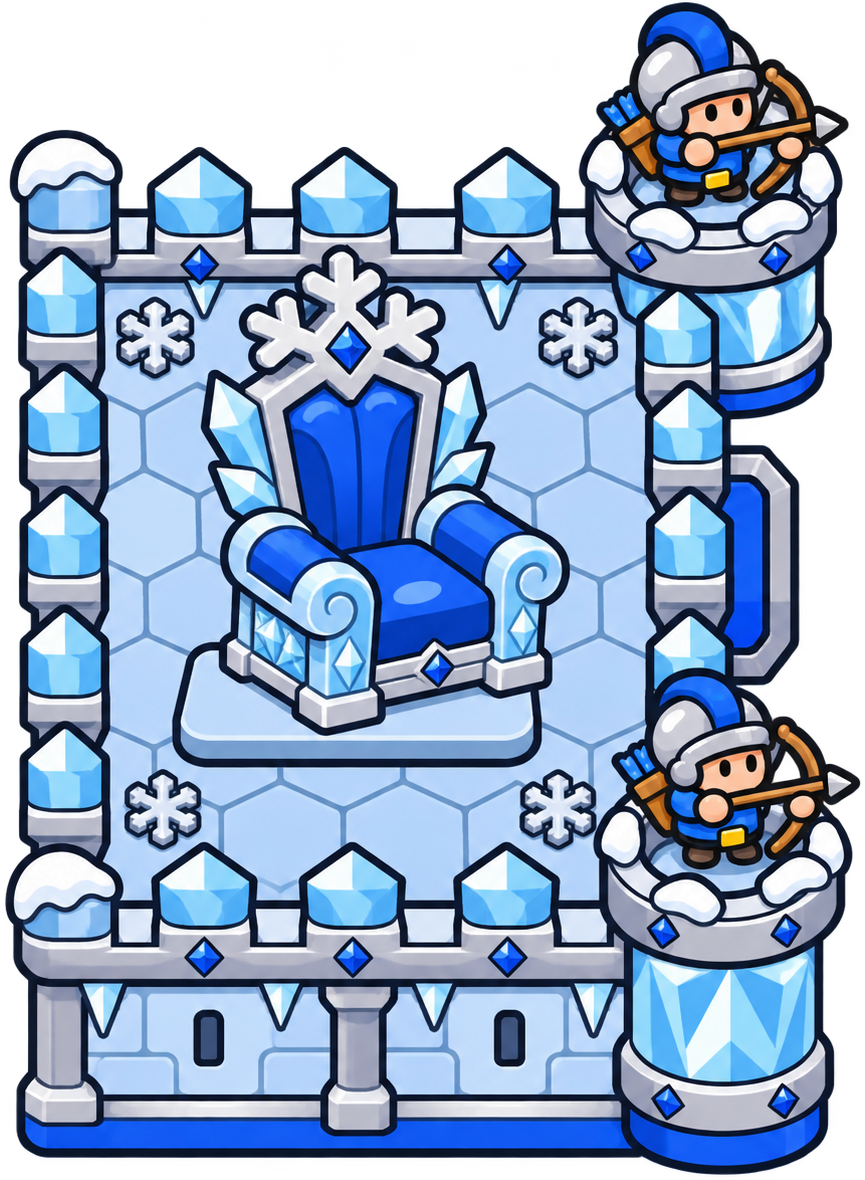
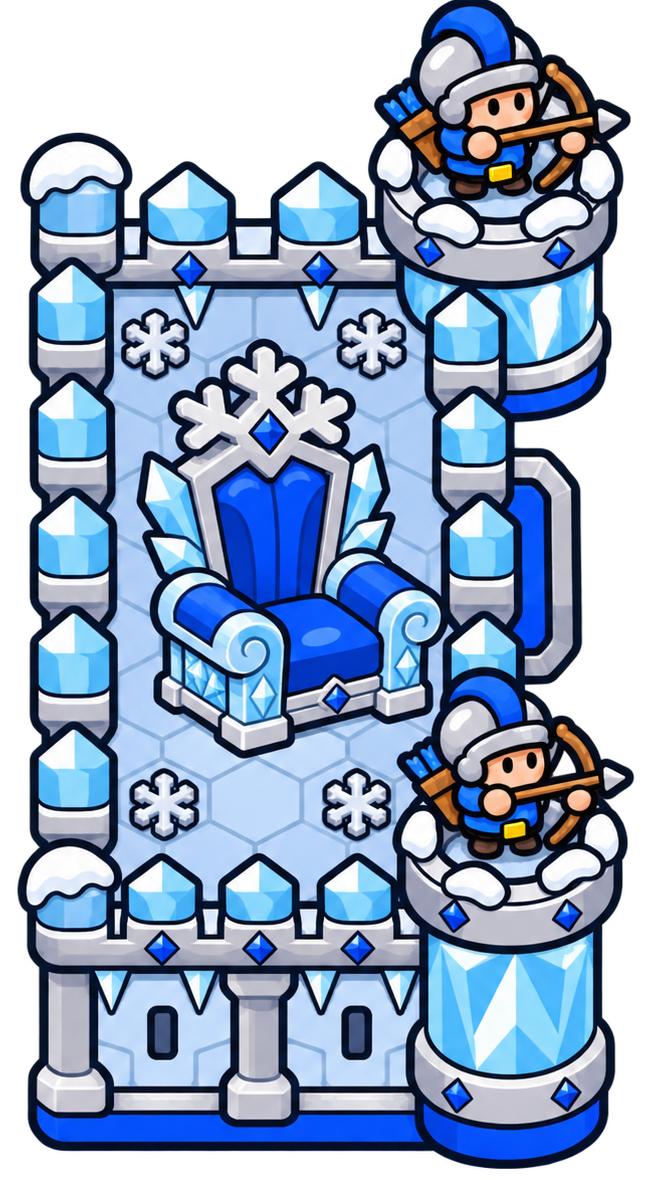
Castillos nuevos; unidades +30 %; arrastre libre (se suelta solo en el camino); bestia bajo el castillo; héroe y bestia fijos sobre las cartas
Claude-Session: https://claude.ai/code/session_01JNP7QCwsBCjLSMGndzwo2W

diff --git a/docs/index.html b/docs/index.html
@@ -967,7 +967,7 @@ body.nav .screen.abismo { padding-bottom: calc(var(--navh) + var(--sb) + 12px); 
 <script>
 (() => {
 'use strict';
-const W = 3660, VW = 960, HGT = 540, GROUND = 410, H = 240;
+const W = 3660, VW = 960, HGT = 540, GROUND = 410, H = 312;
 const OUT = 0x1e2235, STRING = 0xf6e3c6; let BLUE = 0x3b82f6, PURPLE = 0x8b5cf6;
 const ease = p => p < 0 ? 0 : p > 1 ? 1 : 1 - Math.pow(1 - p, 3);
 const easeIn = p => p < 0 ? 0 : p > 1 ? 1 : p * p * p;
@@ -4531,7 +4531,7 @@ let myHero = (() => { try { const h = localStorage.getItem('bg-hero'); return HE
    camino. El tuyo a la izquierda; el del rival, volteado a la derecha y con su color. Cuatro aspectos: piedra, roble, hielo y hierro ---- */
 let ROADW = 1250;                                        // anchura del camino (de hierba a hierba), en unidades del mundo (la fija la escena)
 // ky: aplastado en vertical; oy/y0: la base de la torre de abajo, en la hierba
-const CAS = { k: 2.08, ky: 1.912, x0: 400 - 860 * 2.08, oy: 1162, y0: GROUND + 765, front: 860, seat: [385, 560], arch: [[790, 132], [795, 776]], w: 865, h: 1180 };
+const CAS = { k: 2.08, ky: 1.935, x0: 400 - 643 * 2.08, oy: 1170, y0: GROUND + 765, front: 643, seat: [290, 565], arch: [[610, 125], [615, 785]], w: 660, h: 1180 };
 const CASTLE_FRONT = CAS.x0 + CAS.front * CAS.k;            // frente de las torres
 const THRONE = { x: CAS.x0 + CAS.seat[0] * CAS.k, y: CAS.y0 + (CAS.seat[1] - CAS.oy) * CAS.ky, w: 185 * CAS.k };
 // el terreno de juego va de FIELD_L a FIELD_R: nadie pisa ningún castillo (al aparecer, al ser empujado o al lanzarse)
@@ -4640,7 +4640,7 @@ let ROAD_HALF = H;
 const LANES = 5, LANE_DRIFT = 75 * H / 120;   // px por segundo de cambio de carril
 function laneRand() { const i = Math.floor(Math.random() * LANES), sp = ROAD_HALF * 0.45; return Math.round((i - (LANES - 1) / 2) / ((LANES - 1) / 2) * sp + rand(-6, 6)); }
 function laneTick(dt) {
-  const lim = ROAD_HALF * 0.52;
+  const lim = ROAD_HALF * 0.85;
   for (const u of units) {
     if (!u.alive || u.isCastle || !['walk', 'attack', 'idle'].includes(u.state)) continue;
     const o = nearestEnemy(u);
@@ -6925,8 +6925,8 @@ function colocaCripta() {
   if (BST) { BST.setVisible(false); if (BST.sombra) BST.sombra.setVisible(false); }
   if (!scene || !cam || !B || !B.beast || B.sim || B.idle || $('hud').hidden || !$('menu').hidden) return;
   if (BST) {
-    BST.x0 = CASTLE_FRONT + H * 0.3; BST.y0 = GROUND + ROAD_HALF + H * 1.1; BST.hh = H * 1.25 * BST.art.h;
-    BST.minX = CASTLE_FRONT - H * 0.6; BST.maxX = CASTLE_FRONT + H * 1.6; BST.paseo = null; BST.setFlipX(false); BST.setDepth(BST.y0);
+    BST.x0 = THRONE.x + H * 0.3; BST.y0 = CAS.y0 + H * 0.75; BST.hh = H * 1.1 * BST.art.h;   // en el césped, debajo de tu castillo
+    BST.minX = THRONE.x - H * 0.4; BST.maxX = CASTLE_FRONT - H * 0.2; BST.paseo = null; BST.setFlipX(false); BST.setDepth(BST.y0);
     BST.setPosition(BST.x0, BST.y0).setVisible(true); bestiaPose(BST.pose, BST.actT, true);
   }
 }
@@ -7043,27 +7043,17 @@ function abilUI(reset) {
 }
 // dónde van: en horizontal, en la esquina derecha junto al panel de cartas; en vertical, en el cielo encima de tu trono
 function colocaAbils() {
+  // el hechizo, encima del panel de cartas, a la derecha
   const ab = $('abils'), d = $('dock').getBoundingClientRect(), ih = window.innerHeight;
-  // en horizontal, la esquina izquierda es para la cripta: los botones van a la derecha del panel
-  if (d.left >= 74) { ab.style.top = ''; ab.style.left = 'auto'; ab.style.right = 'var(--sr)'; ab.style.bottom = (ih - d.bottom + 10) + 'px'; return; }
-  ab.style.left = 'calc(var(--sl) + 66px)'; ab.style.right = '';   // a la derecha del círculo del héroe, que va sobre el trono
-  const z = cam.zoom / DPR, y = (THRONE.y - 175 - cam.worldView.y) * z, top = $('hudtop').getBoundingClientRect().bottom + 8, hh = ab.offsetHeight || 130;
-  const t = Math.max(top, y - hh);
-  if (t + hh > d.top - 8) { ab.style.top = ''; ab.style.bottom = (ih - d.top + 10) + 'px'; } else { ab.style.bottom = ''; ab.style.top = t + 'px'; }
+  ab.style.top = ''; ab.style.left = 'auto'; ab.style.right = 'calc(var(--sr) + 12px)'; ab.style.bottom = (ih - d.top + 8) + 'px';
 }
 function w2css(x, y) { const z = cam.zoom / DPR; return [(x - cam.worldView.x) * z, (y - cam.worldView.y) * z]; }
 function colocaAnillos() {
+  // héroe y bestia: fijos encima del panel de cartas, a la izquierda (así no tapan el campo)
   if (!B || B.auto || B.idle || $('hud').hidden) return;
-  const top = $('hudtop').getBoundingClientRect().bottom + 4, d = $('dock').getBoundingClientRect(), iw = window.innerWidth;
-  const pon = (el, x, y, h) => {   // encima de (x, y) del mundo, sin salirse de la pantalla ni pisar el marcador
-    const [cx, cy] = w2css(x, y), w = (el.offsetWidth || 48) / 2;
-    el.style.left = Math.max(w + 2, Math.min(iw - w - 2, cx)) + 'px'; el.style.top = Math.max(top + h, cy) + 'px';
-  };
-  const hr = B.hero, he = $('hero');
-  if (hr.state === 'field' && hr.unit && hr.unit.alive) { const u = hr.unit; pon(he, u.x, u.gy - H * (u.cfg.h || 1) * (u.bigK || 1) * 1.25 - 26, he.offsetHeight || 60); }
-  else if (throneImg) pon(he, THRONE.x, THRONE.y - throneImg.displayHeight * 0.92 - 6, he.offsetHeight || 60);
-  const bb = $('ab-beast');
-  if (!bb.hidden && BST) pon(bb, BST.x, BST.y - BST.displayHeight - 4, bb.offsetHeight || 56);
+  const d = $('dock').getBoundingClientRect(), y = d.top - 6;
+  const he = $('hero'); he.style.left = 'calc(var(--sl) + 38px)'; he.style.top = y + 'px';
+  const bb = $('ab-beast'); if (!bb.hidden) { bb.style.left = 'calc(var(--sl) + 110px)'; bb.style.top = y + 'px'; }
 }
 const _playR = play;
 play = function (team, idx) {
@@ -7282,8 +7272,8 @@ function drFin(soltar) {
   const c = d.c; c.classList.remove('drag', 'fuera', 'nope'); c.style.transform = '';
   if (d.g2) d.g2.destroy();
   const lim = d.g ? drLimite(d.t) : 0;
-  if (soltar && d.g && d.g.root.visible && lim >= FIELD_L && B && !B.over && !paused && B.blue.hand[d.i] === d.t) {
-    PLAY_AT = { x: Math.min(d.g.x, lim), hop: d.g.heldH, lane: d.g.lane, swing: d.g.swing };
+  if (soltar && d.g && d.g.root.visible && d.ok && B && !B.over && !paused && B.blue.hand[d.i] === d.t) {
+    PLAY_AT = { x: Math.max(FIELD_L, Math.min(d.g.x, lim)), hop: d.g.heldH, lane: d.g.lane, swing: d.g.swing };
     try { play('blue', d.i); } finally { PLAY_AT = null; }
   }
   drQuita(d.g);
@@ -7320,27 +7310,25 @@ function arrastreTick(dt) {
   if (!B || B.over || paused || $('hud').hidden) { drFin(false); return; }
   const g = d.g; if (!g || !g.root.visible) { if (d.g2) d.g2.clear(); return; }
   const rdt = Math.max(dt, 1 / 120), z = cam.zoom / DPR;
-  const [wx, wy] = drWorld(d.x, d.y), lim = drLimite(d.t), hueco = lim >= FIELD_L;
-  // donde caería: entre tu muralla y el límite; cuelga un poco por encima del dedo para que se vea
-  const tx = Math.max(FIELD_L, Math.min(lim, wx));
-  if (g.nuevo) { g.nuevo = false; g.x = tx; } g.pop = Math.min(1, g.pop + rdt / 0.14);
-  const ph = g.x; g.x += (tx - g.x) * (1 - Math.exp(-rdt * 22));
-  // el carril, a la altura del dedo (dentro del camino): se puede soltar arriba, abajo o en medio
-  const lm = (typeof ROAD_HALF !== 'undefined' ? ROAD_HALF : H) * 0.52; g.lane = Math.max(-lm, Math.min(lm, wy + H * 0.55 - GROUND));
-  g.heldH = Math.max(H * 0.45, Math.min(H * 4, g.gy - (wy - 26 / z)));
-  // péndulo: al moverla, los pies se quedan atrás y luego se mece
+  // la unidad sigue al dedo por todas partes (camino, césped o cielo); solo se puede soltar en el camino, en tu zona
+  const [wx, wy] = drWorld(d.x, d.y), lim = drLimite(d.t), lm = ROAD_HALF * 0.85, laneRaw = wy - GROUND;   // los pies, bajo el dedo
+  d.ok = lim >= FIELD_L && wx >= FIELD_L && wx <= lim && Math.abs(laneRaw) <= lm;
+  if (g.nuevo) { g.nuevo = false; g.x = wx; } g.pop = Math.min(1, g.pop + rdt / 0.14);
+  const ph = g.x; g.x += (wx - g.x) * (1 - Math.exp(-rdt * 22));
+  g.lane = Math.max(-lm, Math.min(lm, laneRaw));
+  g.heldH = Math.max(H * 0.25, g.gy - wy + 30 / z);
   const vx = (g.x - ph) / rdt, tgt = Math.max(-0.7, Math.min(0.7, vx * 0.0016));
   g.w += ((tgt - g.swing) * 70 - g.w * 7) * rdt; g.swing += g.w * rdt;
   g.root.setScale(0.2 + 0.8 * ease(g.pop));
   g.update(rdt); g.root.y = g.gy;
-  // en rojo, donde no se puede (más allá del límite), la línea del límite y la marca del suelo donde caerá
+  // en rojo, el trozo de camino donde no se puede; la marca del suelo, azul si vale y roja si no
   if (!d.g2) d.g2 = scene.add.graphics().setDepth(8);
-  const G = d.g2, top = GROUND - H * 4.5, x0 = hueco ? lim : FIELD_L - H, pegada = wx > lim;
+  const G = d.g2, top = GROUND - ROAD_HALF, bot = GROUND + ROAD_HALF, x0 = lim >= FIELD_L ? lim : FIELD_L;
   G.clear();
-  G.fillStyle(0xff3b3b, 0.22).fillRect(x0, top, W - x0, GROUND + 40 - top);
-  if (hueco) for (let y = top; y < GROUND + 30; y += 22) G.fillStyle(pegada ? 0xff6b6b : 0xffffff, pegada ? 0.85 : 0.5).fillRect(lim - 2, y, 4, 12);
-  G.lineStyle(3, hueco ? 0xffffff : 0xff6b6b, 0.75).strokeEllipse(g.x, g.gy, H * 0.75, H * 0.2);
-  G.fillStyle(hueco ? 0x4aa8ff : 0xff3b3b, 0.25).fillEllipse(g.x, g.gy, H * 0.75, H * 0.2);
+  G.fillStyle(0xff3b3b, 0.22).fillRect(x0, top, W - x0, bot - top);
+  if (lim >= FIELD_L) for (let y = top; y < bot; y += 26) G.fillStyle(0xffffff, 0.5).fillRect(lim - 2, y, 4, 14);
+  G.lineStyle(3, d.ok ? 0xffffff : 0xff6b6b, 0.75).strokeEllipse(g.x, g.gy, H * 0.75, H * 0.2);
+  G.fillStyle(d.ok ? 0x4aa8ff : 0xff3b3b, 0.25).fillEllipse(g.x, g.gy, H * 0.75, H * 0.2);
 }
 const _battleStepDr = battleStep;
 battleStep = function (dt) { _battleStepDr(dt); arrastreTick(dt); };

diff --git a/prototipos/batalla/arrastre.js b/prototipos/batalla/arrastre.js
@@ -31,8 +31,8 @@ function drFin(soltar) {
   const c = d.c; c.classList.remove('drag', 'fuera', 'nope'); c.style.transform = '';
   if (d.g2) d.g2.destroy();
   const lim = d.g ? drLimite(d.t) : 0;
-  if (soltar && d.g && d.g.root.visible && lim >= FIELD_L && B && !B.over && !paused && B.blue.hand[d.i] === d.t) {
-    PLAY_AT = { x: Math.min(d.g.x, lim), hop: d.g.heldH, lane: d.g.lane, swing: d.g.swing };
+  if (soltar && d.g && d.g.root.visible && d.ok && B && !B.over && !paused && B.blue.hand[d.i] === d.t) {
+    PLAY_AT = { x: Math.max(FIELD_L, Math.min(d.g.x, lim)), hop: d.g.heldH, lane: d.g.lane, swing: d.g.swing };
     try { play('blue', d.i); } finally { PLAY_AT = null; }
   }
   drQuita(d.g);
@@ -69,27 +69,25 @@ function arrastreTick(dt) {
   if (!B || B.over || paused || $('hud').hidden) { drFin(false); return; }
   const g = d.g; if (!g || !g.root.visible) { if (d.g2) d.g2.clear(); return; }
   const rdt = Math.max(dt, 1 / 120), z = cam.zoom / DPR;
-  const [wx, wy] = drWorld(d.x, d.y), lim = drLimite(d.t), hueco = lim >= FIELD_L;
-  // donde caería: entre tu muralla y el límite; cuelga un poco por encima del dedo para que se vea
-  const tx = Math.max(FIELD_L, Math.min(lim, wx));
-  if (g.nuevo) { g.nuevo = false; g.x = tx; } g.pop = Math.min(1, g.pop + rdt / 0.14);
-  const ph = g.x; g.x += (tx - g.x) * (1 - Math.exp(-rdt * 22));
-  // el carril, a la altura del dedo (dentro del camino): se puede soltar arriba, abajo o en medio
-  const lm = (typeof ROAD_HALF !== 'undefined' ? ROAD_HALF : H) * 0.52; g.lane = Math.max(-lm, Math.min(lm, wy + H * 0.55 - GROUND));
-  g.heldH = Math.max(H * 0.45, Math.min(H * 4, g.gy - (wy - 26 / z)));
-  // péndulo: al moverla, los pies se quedan atrás y luego se mece
+  // la unidad sigue al dedo por todas partes (camino, césped o cielo); solo se puede soltar en el camino, en tu zona
+  const [wx, wy] = drWorld(d.x, d.y), lim = drLimite(d.t), lm = ROAD_HALF * 0.85, laneRaw = wy - GROUND;   // los pies, bajo el dedo
+  d.ok = lim >= FIELD_L && wx >= FIELD_L && wx <= lim && Math.abs(laneRaw) <= lm;
+  if (g.nuevo) { g.nuevo = false; g.x = wx; } g.pop = Math.min(1, g.pop + rdt / 0.14);
+  const ph = g.x; g.x += (wx - g.x) * (1 - Math.exp(-rdt * 22));
+  g.lane = Math.max(-lm, Math.min(lm, laneRaw));
+  g.heldH = Math.max(H * 0.25, g.gy - wy + 30 / z);
   const vx = (g.x - ph) / rdt, tgt = Math.max(-0.7, Math.min(0.7, vx * 0.0016));
   g.w += ((tgt - g.swing) * 70 - g.w * 7) * rdt; g.swing += g.w * rdt;
   g.root.setScale(0.2 + 0.8 * ease(g.pop));
   g.update(rdt); g.root.y = g.gy;
-  // en rojo, donde no se puede (más allá del límite), la línea del límite y la marca del suelo donde caerá
+  // en rojo, el trozo de camino donde no se puede; la marca del suelo, azul si vale y roja si no
   if (!d.g2) d.g2 = scene.add.graphics().setDepth(8);
-  const G = d.g2, top = GROUND - H * 4.5, x0 = hueco ? lim : FIELD_L - H, pegada = wx > lim;
+  const G = d.g2, top = GROUND - ROAD_HALF, bot = GROUND + ROAD_HALF, x0 = lim >= FIELD_L ? lim : FIELD_L;
   G.clear();
-  G.fillStyle(0xff3b3b, 0.22).fillRect(x0, top, W - x0, GROUND + 40 - top);
-  if (hueco) for (let y = top; y < GROUND + 30; y += 22) G.fillStyle(pegada ? 0xff6b6b : 0xffffff, pegada ? 0.85 : 0.5).fillRect(lim - 2, y, 4, 12);
-  G.lineStyle(3, hueco ? 0xffffff : 0xff6b6b, 0.75).strokeEllipse(g.x, g.gy, H * 0.75, H * 0.2);
-  G.fillStyle(hueco ? 0x4aa8ff : 0xff3b3b, 0.25).fillEllipse(g.x, g.gy, H * 0.75, H * 0.2);
+  G.fillStyle(0xff3b3b, 0.22).fillRect(x0, top, W - x0, bot - top);
+  if (lim >= FIELD_L) for (let y = top; y < bot; y += 26) G.fillStyle(0xffffff, 0.5).fillRect(lim - 2, y, 4, 14);
+  G.lineStyle(3, d.ok ? 0xffffff : 0xff6b6b, 0.75).strokeEllipse(g.x, g.gy, H * 0.75, H * 0.2);
+  G.fillStyle(d.ok ? 0x4aa8ff : 0xff3b3b, 0.25).fillEllipse(g.x, g.gy, H * 0.75, H * 0.2);
 }
 const _battleStepDr = battleStep;
 battleStep = function (dt) { _battleStepDr(dt); arrastreTick(dt); };

diff --git a/prototipos/batalla/reino.js b/prototipos/batalla/reino.js
@@ -416,8 +416,8 @@ function colocaCripta() {
   if (BST) { BST.setVisible(false); if (BST.sombra) BST.sombra.setVisible(false); }
   if (!scene || !cam || !B || !B.beast || B.sim || B.idle || $('hud').hidden || !$('menu').hidden) return;
   if (BST) {
-    BST.x0 = CASTLE_FRONT + H * 0.3; BST.y0 = GROUND + ROAD_HALF + H * 1.1; BST.hh = H * 1.25 * BST.art.h;
-    BST.minX = CASTLE_FRONT - H * 0.6; BST.maxX = CASTLE_FRONT + H * 1.6; BST.paseo = null; BST.setFlipX(false); BST.setDepth(BST.y0);
+    BST.x0 = THRONE.x + H * 0.3; BST.y0 = CAS.y0 + H * 0.75; BST.hh = H * 1.1 * BST.art.h;   // en el césped, debajo de tu castillo
+    BST.minX = THRONE.x - H * 0.4; BST.maxX = CASTLE_FRONT - H * 0.2; BST.paseo = null; BST.setFlipX(false); BST.setDepth(BST.y0);
     BST.setPosition(BST.x0, BST.y0).setVisible(true); bestiaPose(BST.pose, BST.actT, true);
   }
 }
@@ -534,27 +534,17 @@ function abilUI(reset) {
 }
 // dónde van: en horizontal, en la esquina derecha junto al panel de cartas; en vertical, en el cielo encima de tu trono
 function colocaAbils() {
+  // el hechizo, encima del panel de cartas, a la derecha
   const ab = $('abils'), d = $('dock').getBoundingClientRect(), ih = window.innerHeight;
-  // en horizontal, la esquina izquierda es para la cripta: los botones van a la derecha del panel
-  if (d.left >= 74) { ab.style.top = ''; ab.style.left = 'auto'; ab.style.right = 'var(--sr)'; ab.style.bottom = (ih - d.bottom + 10) + 'px'; return; }
-  ab.style.left = 'calc(var(--sl) + 66px)'; ab.style.right = '';   // a la derecha del círculo del héroe, que va sobre el trono
-  const z = cam.zoom / DPR, y = (THRONE.y - 175 - cam.worldView.y) * z, top = $('hudtop').getBoundingClientRect().bottom + 8, hh = ab.offsetHeight || 130;
-  const t = Math.max(top, y - hh);
-  if (t + hh > d.top - 8) { ab.style.top = ''; ab.style.bottom = (ih - d.top + 10) + 'px'; } else { ab.style.bottom = ''; ab.style.top = t + 'px'; }
+  ab.style.top = ''; ab.style.left = 'auto'; ab.style.right = 'calc(var(--sr) + 12px)'; ab.style.bottom = (ih - d.top + 8) + 'px';
 }
 function w2css(x, y) { const z = cam.zoom / DPR; return [(x - cam.worldView.x) * z, (y - cam.worldView.y) * z]; }
 function colocaAnillos() {
+  // héroe y bestia: fijos encima del panel de cartas, a la izquierda (así no tapan el campo)
   if (!B || B.auto || B.idle || $('hud').hidden) return;
-  const top = $('hudtop').getBoundingClientRect().bottom + 4, d = $('dock').getBoundingClientRect(), iw = window.innerWidth;
-  const pon = (el, x, y, h) => {   // encima de (x, y) del mundo, sin salirse de la pantalla ni pisar el marcador
-    const [cx, cy] = w2css(x, y), w = (el.offsetWidth || 48) / 2;
-    el.style.left = Math.max(w + 2, Math.min(iw - w - 2, cx)) + 'px'; el.style.top = Math.max(top + h, cy) + 'px';
-  };
-  const hr = B.hero, he = $('hero');
-  if (hr.state === 'field' && hr.unit && hr.unit.alive) { const u = hr.unit; pon(he, u.x, u.gy - H * (u.cfg.h || 1) * (u.bigK || 1) * 1.25 - 26, he.offsetHeight || 60); }
-  else if (throneImg) pon(he, THRONE.x, THRONE.y - throneImg.displayHeight * 0.92 - 6, he.offsetHeight || 60);
-  const bb = $('ab-beast');
-  if (!bb.hidden && BST) pon(bb, BST.x, BST.y - BST.displayHeight - 4, bb.offsetHeight || 56);
+  const d = $('dock').getBoundingClientRect(), y = d.top - 6;
+  const he = $('hero'); he.style.left = 'calc(var(--sl) + 38px)'; he.style.top = y + 'px';
+  const bb = $('ab-beast'); if (!bb.hidden) { bb.style.left = 'calc(var(--sl) + 110px)'; bb.style.top = y + 'px'; }
 }
 const _playR = play;
 play = function (team, idx) {

diff --git a/prototipos/batalla/batalla.js b/prototipos/batalla/batalla.js
@@ -18,7 +18,7 @@ let myHero = (() => { try { const h = localStorage.getItem('bg-hero'); return HE
    camino. El tuyo a la izquierda; el del rival, volteado a la derecha y con su color. Cuatro aspectos: piedra, roble, hielo y hierro ---- */
 let ROADW = 1250;                                        // anchura del camino (de hierba a hierba), en unidades del mundo (la fija la escena)
 // ky: aplastado en vertical; oy/y0: la base de la torre de abajo, en la hierba
-const CAS = { k: 2.08, ky: 1.912, x0: 400 - 860 * 2.08, oy: 1162, y0: GROUND + 765, front: 860, seat: [385, 560], arch: [[790, 132], [795, 776]], w: 865, h: 1180 };
+const CAS = { k: 2.08, ky: 1.935, x0: 400 - 643 * 2.08, oy: 1170, y0: GROUND + 765, front: 643, seat: [290, 565], arch: [[610, 125], [615, 785]], w: 660, h: 1180 };
 const CASTLE_FRONT = CAS.x0 + CAS.front * CAS.k;            // frente de las torres
 const THRONE = { x: CAS.x0 + CAS.seat[0] * CAS.k, y: CAS.y0 + (CAS.seat[1] - CAS.oy) * CAS.ky, w: 185 * CAS.k };
 // el terreno de juego va de FIELD_L a FIELD_R: nadie pisa ningún castillo (al aparecer, al ser empujado o al lanzarse)
@@ -127,7 +127,7 @@ let ROAD_HALF = H;
 const LANES = 5, LANE_DRIFT = 75 * H / 120;   // px por segundo de cambio de carril
 function laneRand() { const i = Math.floor(Math.random() * LANES), sp = ROAD_HALF * 0.45; return Math.round((i - (LANES - 1) / 2) / ((LANES - 1) / 2) * sp + rand(-6, 6)); }
 function laneTick(dt) {
-  const lim = ROAD_HALF * 0.52;
+  const lim = ROAD_HALF * 0.85;
   for (const u of units) {
     if (!u.alive || u.isCastle || !['walk', 'attack', 'idle'].includes(u.state)) continue;
     const o = nearestEnemy(u);

diff --git a/prototipos/batalla/construir.py b/prototipos/batalla/construir.py
@@ -18,7 +18,7 @@ def rep(a, b, n=1):
     assert core.count(a) == n, (core.count(a), a[:70]); core = core.replace(a, b)
 # campo 1,5 veces más largo; el lienzo sigue siendo de 960
 rep("const W = 960, HGT = 540", "const W = 3660, VW = 960, HGT = 540")
-rep("GROUND = 410, H = 120;", "GROUND = 410, H = 240;")   # en batalla, unidades más grandes (los tamaños y alcances van en H; las velocidades se escalan en batalla.js)
+rep("GROUND = 410, H = 120;", "GROUND = 410, H = 312;")   # en batalla, unidades más grandes (los tamaños y alcances van en H; las velocidades se escalan en batalla.js)
 # en batalla las unidades se reparten más a lo ancho del camino
 rep("Math.round(rand(-18, 16))", "laneRand()")   # cinco carriles a lo ancho del camino (batalla.js)
 # la velocidad de ataque depende de hechizos, bestias y habilidades de rango (atkK en reino.js)
